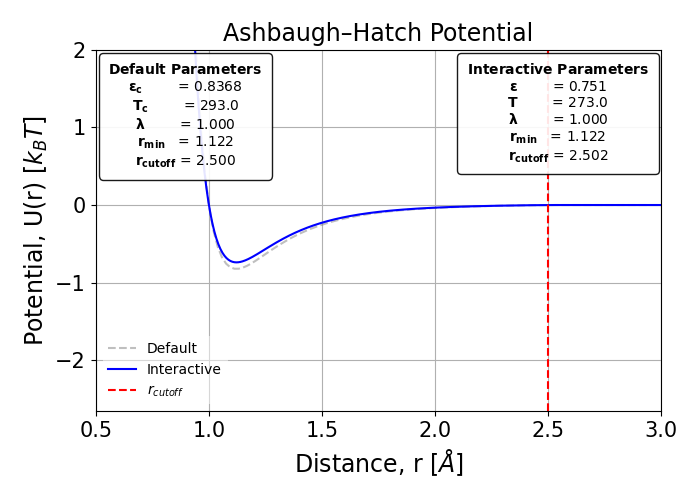
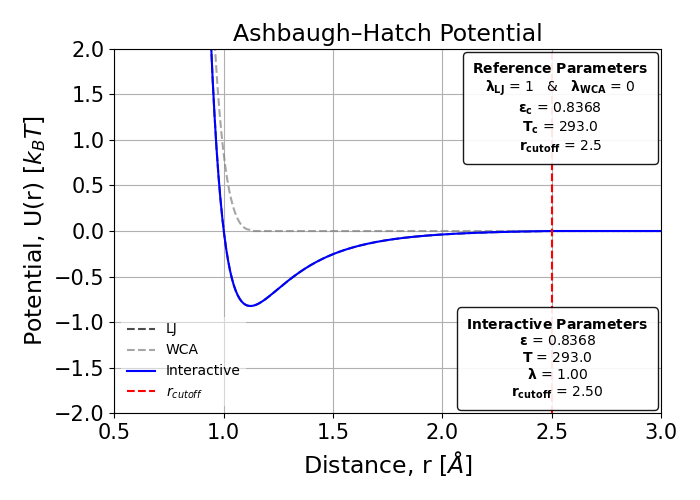
Correction of the expression to calculate epsilon(T) by using the analytical solution of Eq.15 in Hakan article. Add description to the Jupyter Notebook and remove some widgets by setting the parameters: sigma, rmin and ymax

diff --git a/plots/ashbaugh_hatch.py b/plots/ashbaugh_hatch.py
@@ -19,34 +19,36 @@ def in_notebook():
     except:
         return False
 
-
 # ------------------------------
 # Potential definition
 # ------------------------------
-def U_LJ(r, epsilon=1.0, sigma=1.0):
+
+def U_LJ(r, epsilon=0.8368, sigma=1):
     """Lennard-Jones component."""
+    sigma = 1
     return 4 * epsilon * ((sigma / r)**12 - (sigma / r)**6)
 
-def U_AH(r, sigma=1.0, epsilon_c=0.8368, T_c=293, depsilon_dT=0.02522, r_min=2**(1/6), r_cutoff=2.5, lam=1.0, T=293):
+def epsilon_T(T,Tc=293,epsilon_c=0.8368, c=2.52e-2):
+    """Analytical solution of Eq.15 from Wennerstrom & Lindman (https://doi.org/10.1016/j.molliq.2025.128169)"""
+    return epsilon_c*(T*(1/Tc+c-c*np.log(T/Tc))-c*Tc)
+
+def U_AH(r, epsilon_c=0.8368, T_c=293, depsilon_dT=2.52e-2, r_cutoff=2.5, lam=1.0, T=293):
     """
     Generalized Ashbaugh–Hatch potential with:
-      - U_LJ(r) + epsilon(T) (1 - lambda) - lambda * U_LJ(r_cutoff)   at r <= r_min
-      - lambda * (U_LJ(r) - U_LJ(r_cutoff))                           at r >  r_min
+      - U_LJ(r) + epsilon(T) (1 - lambda) - lambda * U_LJ(r_cutoff)   at r <= 2^(1/6)
+      - lambda * (U_LJ(r) - U_LJ(r_cutoff))                           at r >  2^(1/6)
       - 0                                                             at r >= r_cutoff
     where 
-      - epsilon(T) = e_c(default=0.8368 from Calvados3 model) / Tc * (T - d(epsilon)/dT*(T-Tc)**2)  
+      - epsilon(T) = epsilon_c * (T * (1/Tc + c - c*np.log(T/Tc)) - c*Tc)  
     """
 
-    if r_min is None:
-    	r_min = 2**(1/6)*sigma 
-    else:
-    	0
-    if r_cutoff is None:
-    	r_cutoff = 2.5*sigma
-    else:
-    	0
+    # Calculate r at wich the LJ potential is minimum with the chosen sigma 
+    sigma = 1  
+    r_min = 2**(1/6) * sigma
     
-    epsilon = epsilon_c/T_c * (T - depsilon_dT*(T-T_c)**2)
+    # Calculate the epsilon depending on the provided temperature
+    epsilon = epsilon_T(T, T_c, epsilon_c, depsilon_dT)
+    
     if epsilon <=0:
         YELLOW = "\033[93m"
         RESET = "\033[0m"
@@ -71,31 +73,29 @@ def U_AH(r, sigma=1.0, epsilon_c=0.8368, T_c=293, depsilon_dT=0.02522, r_min=2**
     
     return U, epsilon
 
-
 # ------------------------------
 # Plotting
 # ------------------------------
-def plot_potential(sigma=1.0, epsilon_c=0.8368, T_c=293, depsilon_dT=0.02522, r_min=2**(1/6), r_cutoff=2.5, lam=1.0, T=293, ymax=10):
+def plot_potential(epsilon_c=0.8368, T_c=293, depsilon_dT=0.02522, r_cutoff=2.5, lam=1.0, T=293):
     rmax = r_cutoff*1.2   
     r    = np.linspace(0.8, rmax, 500)
-    
+
     # Static default plot
 
     fig, ax = plt.subplots(figsize=(7,5))
-    r_default = np.linspace(0.8, 10, 500)
-    U_default = U_AH(r_default)
-    ax.plot(r_default, U_default[0], color='gray', linestyle='--', alpha=0.5, label="Default")
-    
+    U_LJ  = U_AH(r, epsilon_c=0.8368, r_cutoff=2.5, lam=1.0)
+    U_WCA = U_AH(r, epsilon_c=0.8368, r_cutoff=2.5, lam=0.0)
+    ax.plot(r, U_LJ[0], color='black', linestyle='--', alpha=0.7, label="LJ")
+    ax.plot(r, U_WCA[0], color='gray', linestyle='--', alpha=0.7, label="WCA")    
     # Anchored box for static default parameters
     
-    default_text = (rf"$\mathbf{{Default\ Parameters}}$" "\n"
-		    rf"$\mathbf{{\epsilon_c}}$        = 0.8368""\n"
-                    rf"$\mathbf{{T_c}}$        = 293.0" "\n"
-		    rf"$\mathbf{{\lambda}}$        = 1.000" "\n"
-                    rf"$\mathbf{{r_{{min}}}}$   = {2**(1/6):.3f}" "\n"
-                    rf"$\mathbf{{r_{{cutoff}}}}$ = 2.500")
+    default_text = (rf"$\mathbf{{Reference\ Parameters}}$" "\n"
+		    rf"$\mathbf{{\lambda_{{LJ}}}}$ = 1   &   $\mathbf{{\lambda_{{WCA}}}}$ = 0" "\n"
+		    rf"$\mathbf{{\epsilon_c}}$ = 0.8368""\n"
+                    rf"$\mathbf{{T_c}}$ = 293.0" "\n"
+                    rf"$\mathbf{{r_{{cutoff}}}}$ = 2.5")
 
-    box_default = AnchoredText(default_text, loc="upper left", prop=dict(size=10), frameon=True)
+    box_default = AnchoredText(default_text, loc="upper right", prop=dict(size=10), frameon=True)
     box_default.patch.set_boxstyle("round")
     box_default.patch.set_facecolor("white")
     box_default.patch.set_alpha(0.9)
@@ -104,12 +104,13 @@ def plot_potential(sigma=1.0, epsilon_c=0.8368, T_c=293, depsilon_dT=0.02522, r_
     ax.add_artist(box_default)
     
     # Interactive plot
-    
-    U, epsilon = U_AH(r, sigma, epsilon_c, T_c, depsilon_dT, r_min, r_cutoff, lam, T)
+
+    r    = np.linspace(0.8, rmax, 500)
+    U, epsilon = U_AH(r, epsilon_c, T_c, depsilon_dT, r_cutoff, lam, T)
     plt.plot(r, U,color='blue', label="Interactive")
     plt.axvline(r_cutoff, color="red", linestyle="--", label="$r_{cutoff}$")
-    plt.xlim(0.5*sigma,rmax)
-    plt.ylim(None,ymax)
+    plt.xlim(0.5,rmax)
+    plt.ylim(-2,2)
     plt.xlabel(r"Distance, r [$\AA$]")
     plt.ylabel(r"Potential, U(r) [$k_BT$]")    
     plt.title("Ashbaugh–Hatch Potential")
@@ -120,14 +121,13 @@ def plot_potential(sigma=1.0, epsilon_c=0.8368, T_c=293, depsilon_dT=0.02522, r_
     # Parameter text box
     
     param_text = (rf"$\mathbf{{Interactive\ Parameters}}$" "\n"
-		  rf"$\mathbf{{\epsilon}}$        = {epsilon:.3f}""\n"
-                  rf"$\mathbf{{T}}$        = {T:.1f}""\n"
-		  rf"$\mathbf{{\lambda}}$        = {lam:.3f}""\n"
-                  rf"$\mathbf{{r_{{min}}}}$   = {r_min:.3f}""\n"
-                  rf"$\mathbf{{r_{{cutoff}}}}$ = {r_cutoff:.3f}")
+		  rf"$\mathbf{{\epsilon}}$ = {epsilon:.4f}""\n"
+                  rf"$\mathbf{{T}}$ = {T:.1f} ""\n"
+		  rf"$\mathbf{{\lambda}}$ = {lam:.2f}""\n"
+                  rf"$\mathbf{{r_{{cutoff}}}}$ = {r_cutoff:.2f}")
 
     ax = plt.gca()
-    anchored_box = AnchoredText(param_text,prop=dict(size=10),loc="upper right",frameon=True)
+    anchored_box = AnchoredText(param_text,prop=dict(size=10),loc="lower right",frameon=True)
     anchored_box.patch.set_boxstyle("round")
     anchored_box.patch.set_facecolor("white")
     anchored_box.patch.set_alpha(0.9)
@@ -144,18 +144,37 @@ def run_notebook_mode():
     import ipywidgets as widgets
     from ipywidgets import interact
     
-    def update(sigma, epsilonc, Tc, depsilondT, rmin, rcutoff, lam, T, ymax):
-        plot_potential(sigma, epsilonc, Tc, depsilondT, rmin, rcutoff, lam, T, ymax)
+    def update(epsilonc, Tc, depsilondT, rcutoff, lam, T):
+        plot_potential(epsilonc, Tc, depsilondT, rcutoff, lam, T)
+
     interact(update,
-        sigma=widgets.FloatSlider(value=1.0, min=0.1, max=5.0, step=0.1),
-	epsilonc=widgets.FloatSlider(value=0.8368, min=0.1, max=5.0, step=0.001,readout_format='.4f'),
-        Tc=widgets.FloatSlider(value=293.0, min=273, max=350, step=1),
-	depsilondT=widgets.FloatSlider(value=0.02522, min=0.005, max=0.045, step=0.001, readout_format='.4f'),
-        rmin=widgets.FloatSlider(value=1.122, min=1.122, max=5.0, step=0.1),
-        rcutoff=widgets.FloatSlider(value=2.5, min=1.122, max=5.0, step=0.01),
-        lam=widgets.FloatSlider(value=1.0, min=0.0, max=2.0, step=0.05),
-        T=widgets.FloatSlider(value=293.0, min=273, max=350, step=1),
-	ymax=widgets.FloatSlider(value=10, min=0, max=50, step=1),)
+    epsilonc=widgets.FloatSlider(
+        value=0.8368, min=0.08, max=1.6, step=0.0001,
+        readout_format='.4f',
+        description="ε_c"
+    ),
+    Tc=widgets.FloatSlider(
+        value=293.0, min=273, max=350, step=1,
+        description="T_c"
+    ),
+    depsilondT=widgets.FloatSlider(
+        value=0.02522, min=0.005, max=0.045, step=0.001,
+        readout_format='.4f',
+        description="dε/dT"
+    ),
+    rcutoff=widgets.FloatSlider(
+        value=2.5, min=0, max=5.0, step=0.01,
+        description="r_cut"
+    ),
+    lam=widgets.FloatSlider(
+        value=1.0, min=0.0, max=2.0, step=0.05,
+        description="λ"
+    ),
+    T=widgets.FloatSlider(
+        value=293.0, min=273, max=350, step=1,
+        description="T"
+    ),
+)
 
 # ------------------------------
 # Script mode
@@ -163,28 +182,22 @@ def run_notebook_mode():
 
 def run_script_mode():
     parser = argparse.ArgumentParser(description="Plot Ashbaugh–Hatch potential")
-    parser.add_argument("--sigma", type=float, default=1.0, help="LJ sigma")
     parser.add_argument("--epsilonc", type=float, default=0.8368, help="LJ epsilon from Calvados3 model ar Tc = 293")
     parser.add_argument("--Tc", type=float, default=293.0, help="Reference temperature Calvados3 model")
     parser.add_argument("--depsilondT", type=float, default=0.02522, help="Variance of epsilon with respect to T based on averages of thermodynamics proporties of amino acid sidechains")    
-    parser.add_argument("--rmin", type=float, default=2.0**(1/6), help="Radius where the U(r) is minimum")
     parser.add_argument("--rcutoff", type=float, default=2.5, help="Cutoff radius")
     parser.add_argument("--lambda_val", type=float, default=1.0, help="lambda parameter")
     parser.add_argument("--T", type=float, default=293.0, help="Temperature of the system")
-    parser.add_argument("--ymax", type=float, default=10, help="Maximum limit in the y-axis")
 
     args = parser.parse_args()
 
     plot_potential(
-        sigma       = args.sigma,
 	epsilon_c   = args.epsilonc,
         T_c         = args.Tc,
 	depsilon_dT = args.depsilondT,
-	r_min       = args.rmin,
 	r_cutoff    = args.rcutoff,
 	T           = args.T,
 	lam         = args.lambda_val,
-	ymax        = args.ymax,
          )
 
 # ------------------------------
